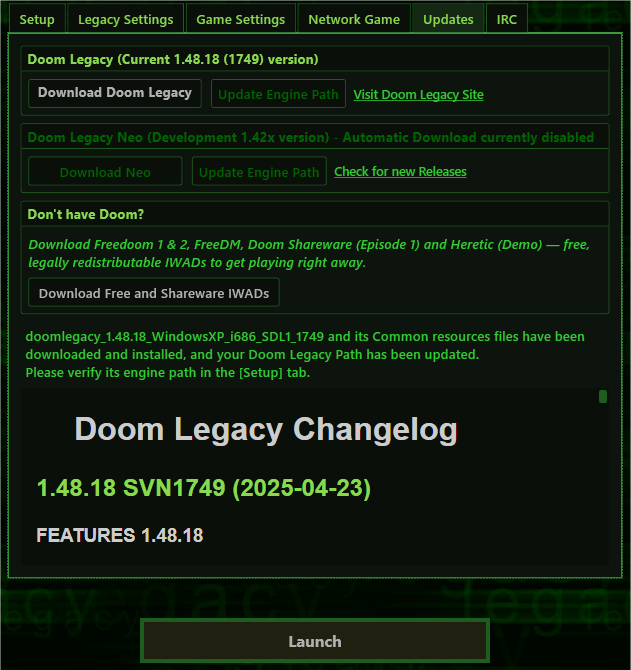
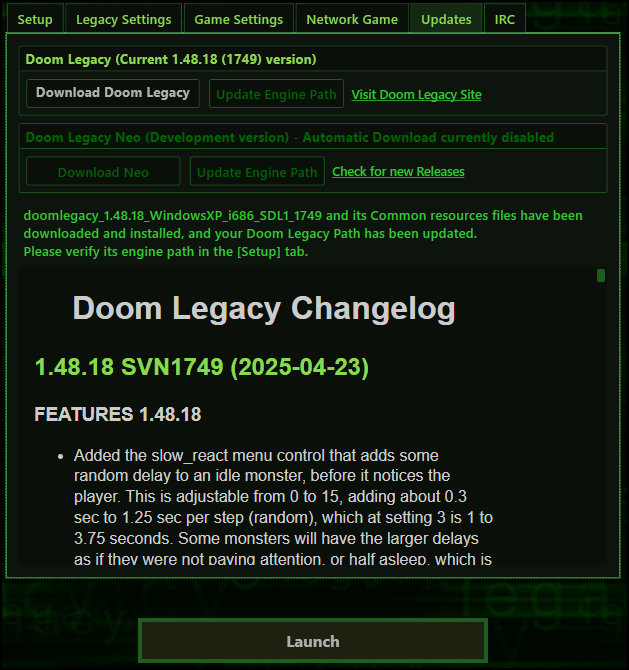
Add files via upload
update to the user manual web page

diff --git a/users_manual.htm b/users_manual.htm
@@ -354,6 +354,22 @@ html {
       width: 100%;
       margin-bottom: 1rem;
 }
+  .manual-img1 {  width: 100%;
+  max-width: 640px;       /* Restricts the width from scaling past 640px */
+  max-height: 670px;      /* Restricts the height from scaling past 670px */
+  object-fit: contain;    /* Guarantees the image shrinks proportionally without distorting */
+  display: block;
+  margin: 0; 
+  border: 1px solid #1c3c11; 
+  border-radius: 4px;
+}
+.manual-img1 {  max-width: 100%;
+  height: auto; /* Keeps image proportions clean when scaled down */
+  display: block;
+  margin: 1rem 0;
+  border: 1px solid #1c3c11; /* Matching thin green legacy border */
+  border-radius: 4px;
+}
   </style>
 </head>
 <body id="top">
@@ -394,8 +410,13 @@ html {
             Advanced settings can be found within the <a href="#legacy-tab">Legacy Settings tab</a> and the <a href="#game-tab">Game Settings tab</a>, where you can modify execution values or load additional file add-ons. To host or connect to multiplayer sessions, head over to the <a href="#network-tab">Network Game tab</a>. When hosting matches online, remember to forward UDP port 5029 so your server shows up globally on the public master server tracker. To join an active session, simply double-click any item in the server list. 
           </p>
           <p>
-            Finally, the launcher features an integrated <a href="#irc-tab">IRC tab</a>. This allows you to chat with other community members and coordinate match timings directly inside the client interface. Below is a somewhat detailed breakdown of each individual tab's layout capabilities.
-          </p>
+          The launcher also features an integrated <a href="#irc-tab">IRC tab</a>. This allows you to chat with other community members and coordinate match timings directly inside the client interface. </p>
+<p id="launch-button">Finally, we have the Launch button.<br>
+<img src="images/Launch_button.png" width="357" height="58"><br>
+The launch button will always be sitting ready to launch the game any time you click it.<br>
+The button will become disabled however if you've already clicked it to Launch a normal game,<br>
+or have clicked it to Host a game from within the <a href="#network-tab">Network Game tab</a>.</p>
+          <p>Below is a somewhat detailed breakdown of each individual tab's layout capabilities. </p>
 
           <!-- 1. Setup Tab Section Block Element -->
           <div id="setup-tab" class="tab-section">
@@ -414,7 +435,7 @@ html {
                   <li style="margin-bottom: 0.4rem;"><strong>Doom Legacy Path:</strong> Direct link location pointer targeting your base executable file.</li>
                   <li style="margin-bottom: 0.4rem;"><strong>IWAD Folder Location:</strong> Global asset directory location storing main data archives (.WAD).</li>
                   <li><strong>Detected IWADs Selector:</strong> Quick dropdown options listing all valid games found inside your library path.</li>
-                  <li>If the Paths are met, the launcher will inform you and or direct you to the Updates tab to download Doom Legacy or Shareware IWADs if needed.</li>
+                  <li>If the Path requirments for the Doom Legacy engine or the IWAD location aren't met, the launcher will inform you and or direct you to the <a href="#updates-tab">Updates tab</a> to download Doom Legacy or Shareware IWADs if needed.</li>
                   <li>Once you have your location paths setup, and an IWAD is selected, both <strong>Skill</strong> and <strong>Maps</strong> Combo boxes will now be active displaying the Skill and proper list of given maps depending on the selected IWAD.</li>
                   <li>The &quot;<strong>Don't load map</strong>&quot; check box is exactly that, if you check it, and click Launch, the game will load without spawning you in a map, and the first thing you'll see is the game's Title Screen but the setting still loads all other launcher settings. This setting has no affect for a Network game, since we will always load a map then.</li>
                   <li><strong>Player Name</strong> is obviously where you'd enter your Player Name to display in game. Note* this does not refect your IRC user name or Nick Name.</li>
@@ -434,6 +455,7 @@ html {
                 <img src="images/launcher_shot2.png" class="manual-img" alt="Legacy Settings Tab Screenshot">
               </div>
               <div class="tab-text-side">
+                <p style="color: #ccc; font-size: 14px; margin: 0;">&nbsp;</p>
                 <p style="color: #ccc; font-size: 14px; margin: 0;">The Legacy Settings tab is mostly populated with a lot of check box and combo box controls to enable or disable random parameters. </p>
                 <p style="color: #ccc; font-size: 14px; margin: 0;"><strong>Audio</strong> being first where you'd mostly want to keep disabled or unchecked, but they are here incase you'd rather listen to your own music or just don't want to hear anything at all, or maybe just for testing. The same pretty much goes for the <strong>Controls</strong>, Disable Mouse and Disable Joystick will usually go unchecked. The <strong>Experimental Game Options</strong> are mostly here for testing new features recently added to Doom Legacy. Try them out and see if you like them! More will likely be added to future versions of the Launcher. This now brings us to the <strong>Video</strong> settings. These will likely become the most usful settings in the this tab, where obviously we'll select OpenGL and Window Mode video resolutions. The Center Screen check box is a Launcher feature, since on Windows anyway, and in windowed mode, Doom Legacy will end up being displayed in the upper left corner of your screen without it. When checked, the Launcher will try to force Legacy's game window to the center of your screen. You can also set the window to scale to the size of the Launcher using the Display as Launcher Scale, if wanted. Now for the <strong>Conrona Effects</strong> controls. They allow you to changed the Type and Size of Legacy's classic spherical glow effects we see attached to the games light sources like candles, electric lamps and torches. </p>
                 <p style="color: #ccc; font-size: 14px; margin: 0;">&nbsp;</p>
@@ -449,12 +471,15 @@ html {
             <p><span class="lightblue1">Game Settings Tab:</span></p>
             
             <div class="tab-content-flex">
-              <div class="tab-image-side">
-                <img src="images/launcher_shot2_2.png" class="manual-img" alt="Game Settings Tab Screenshot">
-              </div>
+              <div class="tab-image-side"><img src="images/launcher_shot2_2.png" class="manual-img1" alt="Game Settings Tab Screenshot"></div>
               <div class="tab-text-side">
-                <p style="color: #F00; font-size: 14px; margin: 0;">TODO: </p>
-                <p style="color: #ccc; font-size: 14px; margin: 0;">Add PWAD .wad or Dehacked .deh files here. As well as gameplay adjustments. Notice we can enable MBF Dogs and add Bots on the fly!</p>
+                <p style="color: #ccc; font-size: 14px; margin: 0;">&nbsp;</p>
+                <p style="color: #ccc; font-size: 14px; margin: 0;">In the <strong>Game Settings tab</strong> we have:</p>
+                <p style="color: #ccc; font-size: 14px; margin: 0;">&nbsp;</p>
+                <p style="color: #ccc; font-size: 14px; margin: 0;"> <strong>Addons:</strong> Load your PWAD .wad or Dehacked .deh files here. Like most settings in the launcher, once added, the path will still be there the next time you load the launcher. The same goes for <strong>Gameplay Modifiers:</strong> These check boxes are self explainitory other than the MBF Dogs checkbox. MBF Dog helpers have been added to the launcher to make those tough levels easier, if needed. When MBF Dogs is checked, 6 dogs will be loaded. Note that this option does not apply to a Network Game. These checkbox controls will be remembered so you won't have to recheck them every time you load the launcher. However, the Item Respawn Time and Monster Respawn Time slider controls will reset on reload, as will the Add Bots selection. You can add up to 8 bots here. Note* if hosting a network game, it's not advised to have bots loaded, since it can cause consistency failures for joining clients.</p>
+<p style="color: #ccc; font-size: 14px; margin: 0;">&nbsp;</p>
+<p style="color: #ccc; font-size: 14px; margin: 0;">As like the Legacy Settings tab, more controls and features will likely be added to this tab in the future.</p>
+<p style="color: #ccc; font-size: 14px; margin: 0;">&nbsp;</p>
               </div>
             </div>
           </div>
@@ -470,12 +495,16 @@ html {
               </div>
               <div class="tab-text-side">
                 <p style="color: #ccc; font-size: 14px; margin: 0 0 1rem 0;">
-                  <strong>Host or Join Network Games:</strong><br><br>
-                  Double-click servers in the server list to connect, or host your own local area network (LAN) and public internet games.
-                </p>
                 <p style="color: #ccc; font-size: 14px; margin: 0 0 1rem 0;">
-                  As mentioned in the launcher itself, you will need to forward port <strong>5029 UDP</strong> when hosting a public game so your server is visible to the public. You may want to go ahead and forward the port number for <strong>TCP</strong> as well. Most of the time, forwarding TCP isn't necessary because PWADs are downloaded directly through the launcher. However, if the server is hosting a customized <strong>.Deh file</strong> and the file cannot be found, Doom Legacy will try to download it internally. This process requires a TCP connection for its download stream instead of UDP.
+  <strong>Host or Join Network Games:</strong><br><br>
+  In the Network Game tab, the first thing you'll notice is the Server List which will display any running Doom Legacy servers. Double-click servers in the server list to Join a hosted game, or host your own local area network (LAN) and public internet games by checking the <strong>Host Game</strong> checkbox. <br>
                 </p>
+                <p style="color: #ccc; font-size: 14px; margin: 0 0 1rem 0;">If hosting a game, add a new <strong>Server Name</strong> in the Server Name text field. If the server name entered is already in use, the launcher will inform you to change the name of it. Since you're planning to Host a server, you can also quickly adjust the <strong>Game Mode</strong>, <strong>Fraglimit</strong> and <strong>Timelimit</strong> prior to hosting..</br>
+                </p>
+<p style="color: #ccc; font-size: 14px; margin: 0 0 1rem 0;">
+                As mentioned in the launcher itself, you will need to forward port <strong>5029 UDP</strong> when hosting a public game so your server is visible to the public. You may want to go ahead and forward the port number for <strong>TCP</strong> as well. Most of the time, forwarding TCP isn't necessary because PWADs are downloaded directly through the launcher. However, if the server is hosting a custom <strong>PWAD</strong> or <strong>.Deh</strong> file and the file cannot be found, Doom Legacy will try to download it internally. This process requires a TCP connection for its P2P download stream instead of UDP.
+</p>
+                <p style="color: #ccc; font-size: 14px; margin: 0 0 1rem 0;"> When <strong>Host Game</strong> is checked and you're ready to start up a server, simply click the <a href="#launch-button">Launch button</a> and your in game Doom Legacy server will be running, and your server will show up in the server list.&nbsp; </p>
                 <p style="color: #ccc; font-size: 14px; margin: 0;">
                   The <strong>Master Server Address</strong> field can be left blank; it is mostly there for future use. Right now, the launcher utilizes its own database to store hosted server information and relay it back to the client's server list data grid so players can view active matches worldwide, and join them.
                 </p>
@@ -483,22 +512,31 @@ html {
             </div>
           </div>
 
-          <!-- 5. Updates Block Continuation -->
-          <div id="updates-tab" class="tab-section">
-            <a href="#top" class="back-to-top">^ Back to Top</a>
-            <p><span class="lightblue1">Updates Tab:</span></p>
-            
-            <div class="tab-content-flex">
-              <div class="tab-image-side">
-                <img src="images/launcher_shot4.png" class="manual-img" alt="Updates Tab Screenshot">
-              </div>
-              <div class="tab-text-side">
-                <p style="color: #F00; font-size: 14px; margin: 0;">TODO:</p>
-                <p style="color: #ccc; font-size: 14px; margin: 0;">&nbsp;</p>
-                <p style="color: #ccc; font-size: 14px; margin: 0;">Automated update scripts built to check version numbers, download launcher revisions, and retrieve free shareware assets directly over safe file mirrors.</p>
-              </div>
-            </div>
-          </div>
+        <!-- 3. Updates Tab Section Block -->
+<div id="updates-tab" class="tab-section">
+  <a href="#top" class="back-to-top">^ Back to Top</a>
+  <p><span class="lightblue1">Updates Tab:</span></p>
+
+  <div class="tab-content-flex">
+    <!-- Left Side: Image container box -->
+    <div class="tab-image-side">
+      <img src="images/launcher_shot4.png" class="manual-img" alt="Updates Tab Screenshot">
+    </div>
+
+    <!-- Right Side: Description text and bullet lists -->
+    <div class="tab-text-side">
+      <ul class="style1" style="color: #ccc; font-size: 14px; padding-left: 1.2rem; margin: 0;">
+        <li style="margin-bottom: 0.4rem;">The <strong>Updates tab</strong> is where you can <strong>Download Doom Legacy</strong> as well as its Common resource files. The Launcher will download, extract them, and have you ready to play in a single click. </li>
+        <li>The same goes for the Shareware and Freedoom IWADs. When the launcher detect that you don't have any IWADs installed, the <strong>Download Free IWADs</strong> button will be visible.</li>
+        <li style="margin-bottom: 0.4rem;"><strong>Doom Legacy Neo</strong> is a development branch based on the 1.42 birthday version of Doom Legacy. Updated to SDL3, offering widescreen support and a new master server network protocol. Automatic downloads for Neo may be disabled at times; when this is the case, use <strong>Check for new Releases</strong> to be taken to the download page manually.</li>
+        <li><strong>Update Engine Path</strong>: This button is currently disabled and will be functional in later verrsions of the launcher. The reasoning behind it is if you have downloaded and installed both engines, the button allows you to switch between their engine paths. Letting you Immediately switch from the current Doom Legacy engine to Doom Legacy Neo engine with a single click.</li>
+        <li style="margin-bottom: 0.4rem;">If you don't already own Doom or Doom II, the <strong>Don't have Doom?</strong> section has you covered. Clicking <strong>Download Free and Shareware IWADs</strong> will grab Freedom 1 &amp; 2, FreeDM, the Doom Shareware (Episode 1), and the Heretic Demo — all free and legally redistributable — so you can start playing right away.</li>
+        <li style="margin-bottom: 0.4rem;">Once a download finishes, the launcher will confirm what was installed and let you know your Doom Legacy Path has been updated automatically. It's still a good idea to double check the path afterward in the <a href="#setup-tab">Setup tab</a>.</li>
+        <li>Below the download options, the <strong>Changelog</strong> panel displays the release notes for the currently installed version, so you can see what's new or changed at a glance.</li>
+      </ul>
+    </div>
+  </div>
+</div>
 
           <!-- 6. NEW: IRC Chat Block Section Element -->
           <div id="irc-tab" class="tab-section">
@@ -510,13 +548,13 @@ html {
                 <img src="images/launcher_shot5.png" class="manual-img" alt="IRC Tab Chat Screenshot">
               </div>
               <div class="tab-text-side">
-                <p style="color: #F00; font-size: 14px; margin-top: 0; margin-bottom: 0.8rem;">
-                TODO: </p>
-                <p style="color: #ccc; font-size: 14px; margin-bottom: 0.8rem;">The launcher features an integrated, lightweight Internet Relay Chat (IRC) client that automatically links you to the community chatrooms. This section is designed to keep players connected without requiring external client programs. </p>
+                <p>&nbsp;</p>
+                <p style="color: #ccc; font-size: 14px; margin-bottom: 0.8rem;">In the <strong>IRC tab</strong>, the launcher features an integrated, lightweight Internet Relay Chat (IRC) client that connects and joins #legacylauncher. This section is designed to keep players connected without requiring external client programs. The IRC client is pretty basic and it limited to most IRC commands. However, is Ideal for organizing DM or Coop sessions, challenging rivals or checking server availability with active players.</p>
                 <ul class="style1" style="color: #ccc; font-size: 14px; padding-left: 1.2rem; margin: 0;">
-                  <li style="margin-bottom: 0.4rem;"><strong>Auto-Connect:</strong> Joins the official Doom Legacy matchmaking channel immediately upon loading the tab panel.</li>
-                  <li style="margin-bottom: 0.4rem;"><strong>Match Coordination:</strong> Ideal for organizing coop sessions, challenging rivals to deathmatches, or checking server availability with active players.</li>
-                  <li><strong>Chat Code of Conduct:</strong> All message transactions inside the text window are subject to our behavioral terms to prevent flooding or server harassment.</li>
+                  <li style="margin-bottom: 0.4rem;"><strong>Nick:</strong> The Nickname you will use when connecting to IRC. If no name is given, the default LegacyUser and [random number] will be generated. As mentioned in the <a href="#setup-tab">Setup tab</a>, this Nick name does not refect your in-game Player name.</li>
+                  <li><strong>Connect:</strong> Joins  channel legacylauncher immediately. <strong>Disconnect</strong>, or closing the launcher will disconnect you from the IRC server. </li>
+                  <li><strong>Send:</strong> The Send message button obviously allows you to send a message. A message can also be sent simply by hitting your Enter key. After leaving a message the client has a built in history feature where you can arrow up or down to view your last message text history. The client also supports clickable links in the chat window.</li>
+                  <li><strong>Note:</strong> All message transactions inside the chat window are subject to our behavioral terms to prevent flooding or server harassment.</li>
                 </ul>
               </div>
             </div>
